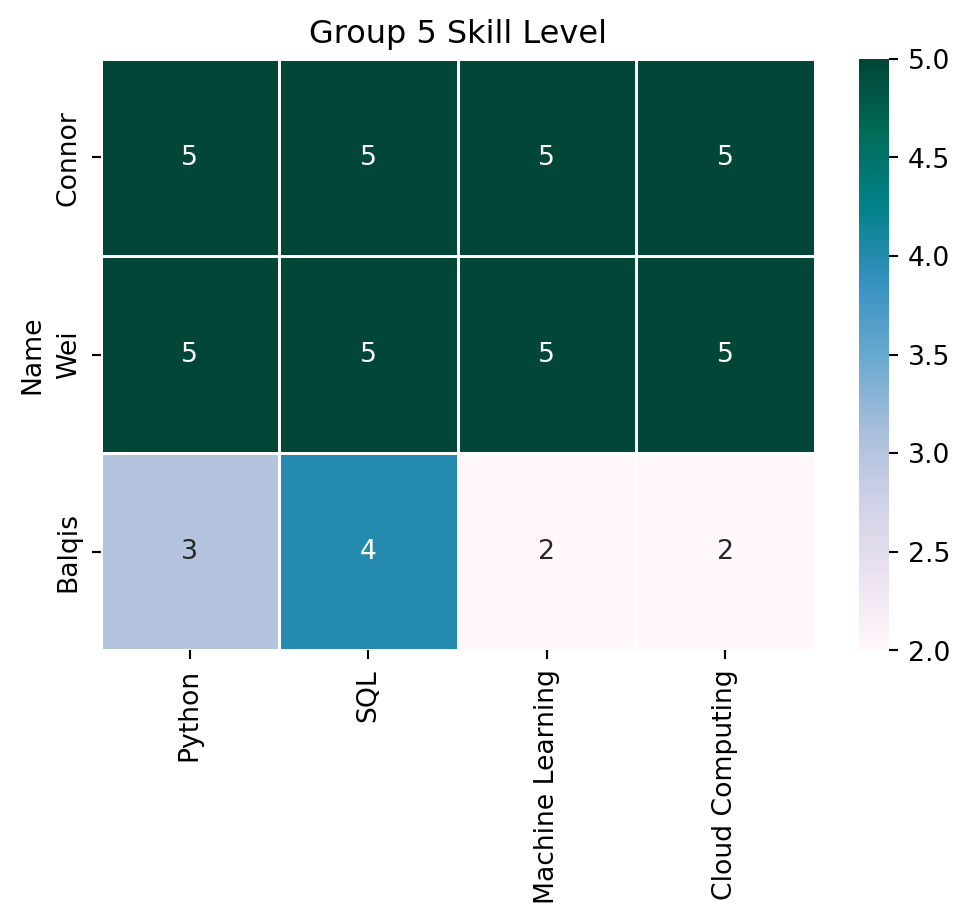
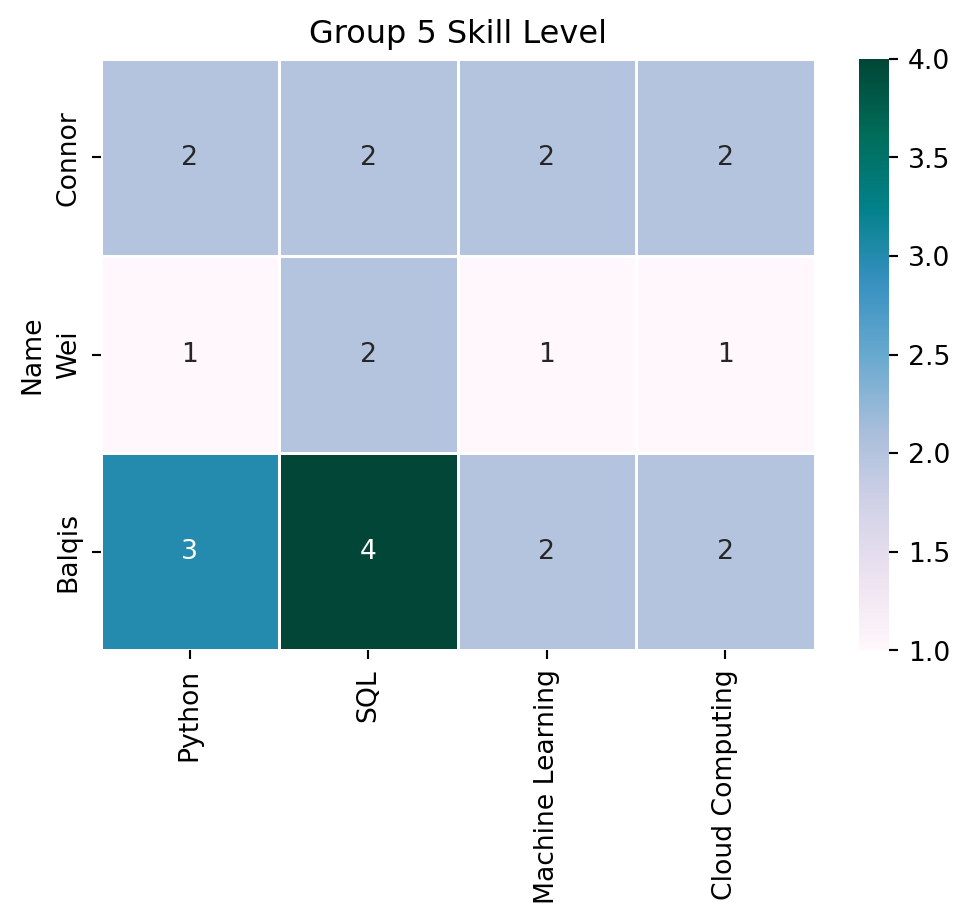
4th draft

diff --git a/skill_gap_analysis.html b/skill_gap_analysis.html
@@ -199,7 +199,7 @@ pre > code.sourceCode > span > a:first-child::before { text-decoration: underlin
 </header>
 
 
-<div id="efb3b1cd" class="cell" data-execution_count="1">
+<div id="438b263d" class="cell" data-execution_count="1">
 <div class="code-copy-outer-scaffold"><div class="sourceCode cell-code" id="cb1"><pre class="sourceCode python code-with-copy"><code class="sourceCode python"><span id="cb1-1"><a href="#cb1-1" aria-hidden="true" tabindex="-1"></a><span class="im">import</span> pandas <span class="im">as</span> pd</span>
 <span id="cb1-2"><a href="#cb1-2" aria-hidden="true" tabindex="-1"></a><span class="im">import</span> seaborn <span class="im">as</span> sns</span>
 <span id="cb1-3"><a href="#cb1-3" aria-hidden="true" tabindex="-1"></a><span class="im">import</span> matplotlib.pyplot <span class="im">as</span> plt</span>
@@ -208,11 +208,11 @@ pre > code.sourceCode > span > a:first-child::before { text-decoration: underlin
 <span id="cb1-6"><a href="#cb1-6" aria-hidden="true" tabindex="-1"></a><span class="co"># 3.1.1 Group 5 skill level</span></span>
 <span id="cb1-7"><a href="#cb1-7" aria-hidden="true" tabindex="-1"></a>skills_data <span class="op">=</span> {</span>
 <span id="cb1-8"><a href="#cb1-8" aria-hidden="true" tabindex="-1"></a>    <span class="st">"Name"</span>: [<span class="st">"Connor"</span>, <span class="st">"Wei"</span>, <span class="st">"Balqis"</span>],</span>
-<span id="cb1-9"><a href="#cb1-9" aria-hidden="true" tabindex="-1"></a>    <span class="st">"Python"</span>: [<span class="dv">5</span>, <span class="dv">5</span>, <span class="dv">3</span>],</span>
-<span id="cb1-10"><a href="#cb1-10" aria-hidden="true" tabindex="-1"></a>    <span class="st">"SQL"</span>: [<span class="dv">5</span>, <span class="dv">5</span>, <span class="dv">4</span>],</span>
-<span id="cb1-11"><a href="#cb1-11" aria-hidden="true" tabindex="-1"></a>    <span class="st">"Machine Learning"</span>: [<span class="dv">5</span>, <span class="dv">5</span>, <span class="dv">2</span>],</span>
-<span id="cb1-12"><a href="#cb1-12" aria-hidden="true" tabindex="-1"></a>    <span class="st">"Cloud Computing"</span>: [<span class="dv">5</span>, <span class="dv">5</span>, <span class="dv">2</span>]</span>
-<span id="cb1-13"><a href="#cb1-13" aria-hidden="true" tabindex="-1"></a>}</span>
+<span id="cb1-9"><a href="#cb1-9" aria-hidden="true" tabindex="-1"></a>    <span class="st">"Python"</span>: [<span class="dv">2</span>, <span class="dv">1</span>, <span class="dv">3</span>],</span>
+<span id="cb1-10"><a href="#cb1-10" aria-hidden="true" tabindex="-1"></a>    <span class="st">"SQL"</span>: [<span class="dv">2</span>, <span class="dv">2</span>, <span class="dv">4</span>],</span>
+<span id="cb1-11"><a href="#cb1-11" aria-hidden="true" tabindex="-1"></a>    <span class="st">"Machine Learning"</span>: [<span class="dv">2</span>, <span class="dv">1</span>, <span class="dv">2</span>],</span>
+<span id="cb1-12"><a href="#cb1-12" aria-hidden="true" tabindex="-1"></a>    <span class="st">"Cloud Computing"</span>: [<span class="dv">2</span>, <span class="dv">1</span>, <span class="dv">2</span>]}</span>
+<span id="cb1-13"><a href="#cb1-13" aria-hidden="true" tabindex="-1"></a></span>
 <span id="cb1-14"><a href="#cb1-14" aria-hidden="true" tabindex="-1"></a>df_skills <span class="op">=</span> pd.DataFrame(skills_data).set_index(<span class="st">"Name"</span>)</span>
 <span id="cb1-15"><a href="#cb1-15" aria-hidden="true" tabindex="-1"></a></span>
 <span id="cb1-16"><a href="#cb1-16" aria-hidden="true" tabindex="-1"></a>plt.figure(figsize<span class="op">=</span>(<span class="dv">6</span>,<span class="dv">4</span>))</span>
@@ -227,7 +227,7 @@ pre > code.sourceCode > span > a:first-child::before { text-decoration: underlin
 </div>
 </div>
 </div>
-<div id="a9fe9645" class="cell" data-execution_count="2">
+<div id="43a21ec7" class="cell" data-execution_count="2">
 <div class="code-copy-outer-scaffold"><div class="sourceCode cell-code" id="cb2"><pre class="sourceCode python code-with-copy"><code class="sourceCode python"><span id="cb2-1"><a href="#cb2-1" aria-hidden="true" tabindex="-1"></a><span class="co"># 3.1.2 Compare our group's skills against job market demand</span></span>
 <span id="cb2-2"><a href="#cb2-2" aria-hidden="true" tabindex="-1"></a>top_skills <span class="op">=</span> [<span class="st">"Python"</span>, <span class="st">"SQL"</span>, <span class="st">"Machine Learning"</span>, <span class="st">"Cloud Computing"</span>, <span class="st">"Docker"</span>, <span class="st">"AWS"</span>]</span>
 <span id="cb2-3"><a href="#cb2-3" aria-hidden="true" tabindex="-1"></a>job_skill_counts <span class="op">=</span> Counter(top_skills)</span>
@@ -265,19 +265,19 @@ pre > code.sourceCode > span > a:first-child::before { text-decoration: underlin
 <tbody>
 <tr class="odd">
 <th data-quarto-table-cell-role="th">Connor</th>
-<td>5</td>
-<td>5</td>
-<td>5</td>
-<td>5</td>
+<td>2</td>
+<td>2</td>
+<td>2</td>
+<td>2</td>
 <td>0</td>
 <td>0</td>
 </tr>
 <tr class="even">
 <th data-quarto-table-cell-role="th">Wei</th>
-<td>5</td>
-<td>5</td>
-<td>5</td>
-<td>5</td>
+<td>1</td>
+<td>2</td>
+<td>1</td>
+<td>1</td>
 <td>0</td>
 <td>0</td>
 </tr>
@@ -298,9 +298,9 @@ pre > code.sourceCode > span > a:first-child::before { text-decoration: underlin
 </div>
 <section id="improvement-plan" class="level1">
 <h1>3.1.3 Improvement Plan</h1>
-<p>Balqis: Her Machine Learning and Cloud Computing are at a basic level, so there’s room to grow. Since her career path is in data analysis with a focus on visualization, Machine Learning isn’t her top priority, but Cloud Computing is worth developing further. She should also raise her Python to an advanced level, as it’s essential for data analysts. A good approach is to start with small personal projects, apply what she learns at work, and then pursue certifications once she’s confident with the basics.</p>
-<p>Connor:</p>
-<p>Wei:</p>
+<p>Balqis: Her Machine Learning and Cloud Computing are at a basic level, leaving room to grow. With a career in data analysis and visualization, Machine Learning isn’t her top priority, but Cloud Computing is worth developing further. Strengthening Python would also be valuable, as it’s essential for data analysts. A good approach is to sharpen her skills through small personal projects and apply what she learns at work. If her fundamentals feel solid, she can move towards certifications.</p>
+<p>Wei: Her Python and Machine Learning are at a basic level, so she has the option to develop them further depending on how relevant they are to her career path. Since her SQL is already stronger, focusing on Python would be the most practical next step if she chooses to continue building technical skills. A good approach is to take it gradually through small projects and applied practice, and then expand into more advanced areas only if it fits her goals.</p>
+<p>Connor: His skills are fairly even across all areas, at a basic stage, which gives him room to build depth. Bumping Python up to a stronger level would give him the most flexibility, while also continuing to grow in Cloud Computing to keep pace with current tools and workflows. A steady way forward is to practice Python through hands-on work and then bring in cloud tools as he becomes more confident.</p>
 
 
 </section>
